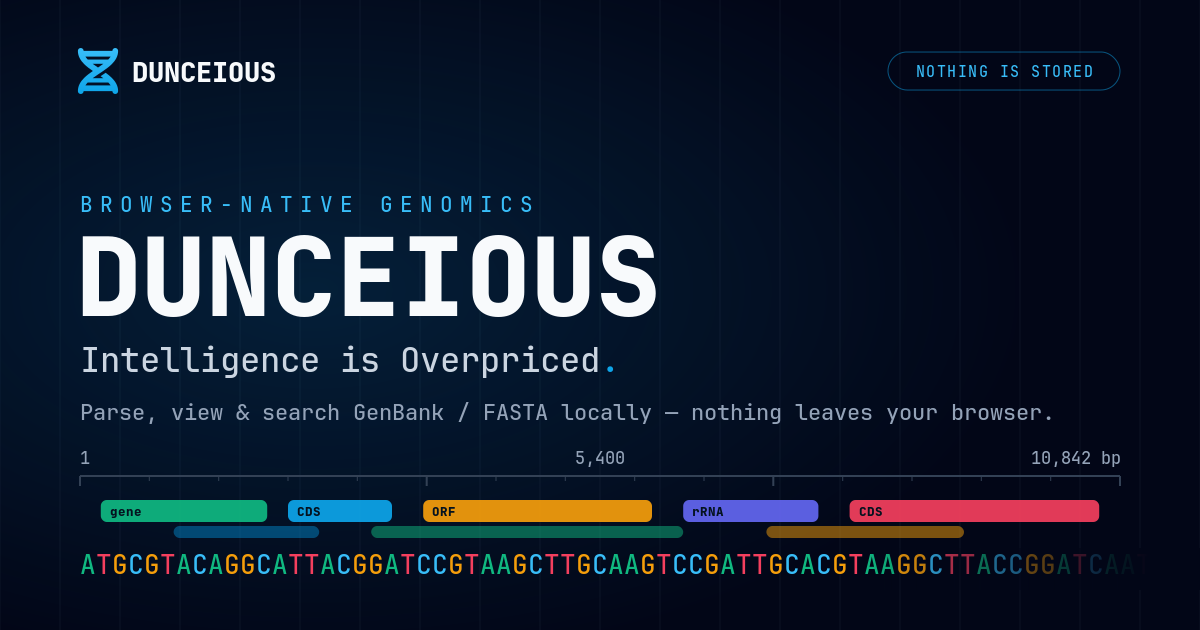
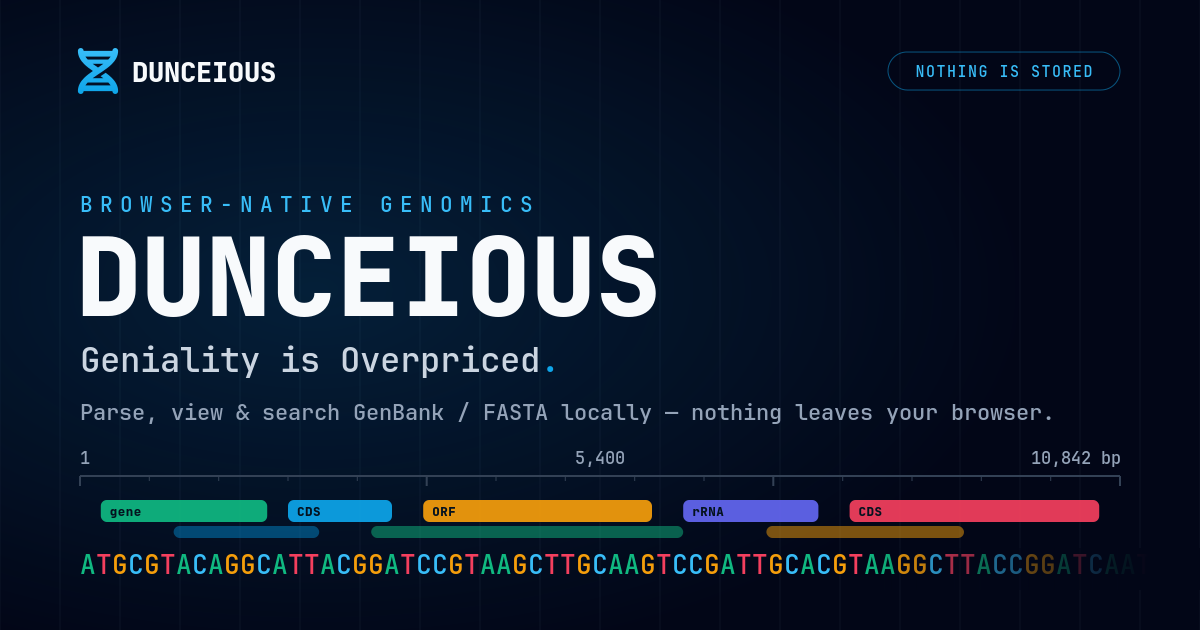
fix: update the slogan to geniality

diff --git a/index.html b/index.html
@@ -23,7 +23,7 @@
 <head>
     <meta charset="UTF-8">
     <meta name="viewport" content="width=device-width, initial-scale=1.0">
-    <title>Dunceious - Intelligence is Overpriced</title>
+    <title>Dunceious - Geniality is Overpriced</title>
     <meta name="description" content="A browser-native genome & sequence workbench. Parse, view, and search GenBank & FASTA entirely in your browser — nothing is stored.">
     <meta name="theme-color" content="#020617">
     <link rel="canonical" href="https://dunceious.pages.dev/">
@@ -37,7 +37,7 @@
     <!-- og:image / twitter:image MUST be absolute https URLs; most platforms drop a relative image. -->
     <meta property="og:type" content="website">
     <meta property="og:site_name" content="Dunceious">
-    <meta property="og:title" content="Dunceious — Intelligence is Overpriced">
+    <meta property="og:title" content="Dunceious — Geniality is Overpriced">
     <meta property="og:description" content="A browser-native genome & sequence workbench. Parse, view, and search GenBank & FASTA entirely in your browser — nothing is stored.">
     <meta property="og:url" content="https://dunceious.pages.dev/">
     <meta property="og:image" content="https://dunceious.pages.dev/og-image.png">
@@ -49,7 +49,7 @@
 
     <!-- Social preview (Twitter/X) -->
     <meta name="twitter:card" content="summary_large_image">
-    <meta name="twitter:title" content="Dunceious — Intelligence is Overpriced">
+    <meta name="twitter:title" content="Dunceious — Geniality is Overpriced">
     <meta name="twitter:description" content="A browser-native genome & sequence workbench. Parse, view, and search GenBank & FASTA entirely in your browser — nothing is stored.">
     <meta name="twitter:image" content="https://dunceious.pages.dev/og-image.png">
     <meta name="twitter:image:alt" content="Dunceious — a browser-native genome & sequence workbench">

diff --git a/docs/design/environment-accent-prototypes.html b/docs/design/environment-accent-prototypes.html
@@ -1405,7 +1405,7 @@ table.db td.loc { font-family: var(--mono); color: #475569; font-variant-numeric
     <div class=&quot;nav&quot;>
       <div class=&quot;hf-env&quot;></div>
       <button class=&quot;iconbtn hamb&quot; aria-label=&quot;Menu&quot;><i></i><i></i><i></i></button>
-      <div class=&quot;wordmark&quot;><b>DUNCEIOUS</b><span>BECAUSE INTELLIGENCE IS OVERPRICED.</span></div>
+      <div class=&quot;wordmark&quot;><b>DUNCEIOUS</b><span>BECAUSE GENIALITY IS OVERPRICED.</span></div>
       <div class=&quot;modesw&quot;>
         <div class=&quot;mcell view&quot;><span class=&quot;pill-bloom&quot;></span><span class=&quot;g&quot;>⊕</span><span class=&quot;t&quot;><small>VIEW</small><b>VISUAL VIEWPORT</b></span></div>
         <div class=&quot;mcell manage&quot;><span class=&quot;pill-bloom&quot;></span><span class=&quot;g&quot;>▦</span><span class=&quot;t&quot;><small>MANAGE</small><b>DATABASE HUB</b></span></div>
@@ -2080,7 +2080,7 @@ table.db td.loc { font-family: var(--mono); color: #475569; font-variant-numeric
     <div class=&quot;nav&quot;>
       <div class=&quot;chrome-env&quot;></div>
       <button class=&quot;iconbtn hamb&quot; aria-label=&quot;Menu&quot;><i></i><i></i><i></i></button>
-      <div class=&quot;wordmark&quot;><b>DUNCEIOUS</b><span>BECAUSE INTELLIGENCE IS OVERPRICED.</span></div>
+      <div class=&quot;wordmark&quot;><b>DUNCEIOUS</b><span>BECAUSE GENIALITY IS OVERPRICED.</span></div>
       <div class=&quot;modesw&quot;>
         <div class=&quot;mcell view&quot;><span class=&quot;pill-bloom&quot;></span><span class=&quot;g&quot;>⊕</span><span class=&quot;t&quot;><small>VIEW</small><b>VISUAL VIEWPORT</b></span></div>
         <div class=&quot;mcell manage&quot;><span class=&quot;pill-bloom&quot;></span><span class=&quot;g&quot;>▦</span><span class=&quot;t&quot;><small>MANAGE</small><b>DATABASE HUB</b></span></div>

diff --git a/docs/design/prototypes/gradient-incontext.html b/docs/design/prototypes/gradient-incontext.html
@@ -290,7 +290,7 @@ table.db td.loc { font-family: var(--mono); color: #475569; font-variant-numeric
     <div class="nav">
       <div class="chrome-env"></div>
       <button class="iconbtn hamb" aria-label="Menu"><i></i><i></i><i></i></button>
-      <div class="wordmark"><b>DUNCEIOUS</b><span>BECAUSE INTELLIGENCE IS OVERPRICED.</span></div>
+      <div class="wordmark"><b>DUNCEIOUS</b><span>BECAUSE GENIALITY IS OVERPRICED.</span></div>
       <div class="modesw">
         <div class="mcell view"><span class="pill-bloom"></span><span class="g">⊕</span><span class="t"><small>VIEW</small><b>VISUAL VIEWPORT</b></span></div>
         <div class="mcell manage"><span class="pill-bloom"></span><span class="g">▦</span><span class="t"><small>MANAGE</small><b>DATABASE HUB</b></span></div>

diff --git a/docs/design/prototypes/gradient-frame-styles.html b/docs/design/prototypes/gradient-frame-styles.html
@@ -1347,7 +1347,7 @@ table.db td.loc { font-family: var(--mono); color: #475569; font-variant-numeric
     <div class="nav">
       <div class="hf-env"></div>
       <button class="iconbtn hamb" aria-label="Menu"><i></i><i></i><i></i></button>
-      <div class="wordmark"><b>DUNCEIOUS</b><span>BECAUSE INTELLIGENCE IS OVERPRICED.</span></div>
+      <div class="wordmark"><b>DUNCEIOUS</b><span>BECAUSE GENIALITY IS OVERPRICED.</span></div>
       <div class="modesw">
         <div class="mcell view"><span class="pill-bloom"></span><span class="g">⊕</span><span class="t"><small>VIEW</small><b>VISUAL VIEWPORT</b></span></div>
         <div class="mcell manage"><span class="pill-bloom"></span><span class="g">▦</span><span class="t"><small>MANAGE</small><b>DATABASE HUB</b></span></div>

diff --git a/src/app/components/TopNav.tsx b/src/app/components/TopNav.tsx
@@ -101,7 +101,7 @@ const TopNav: React.FC<TopNavProps> = ({
           <span className="text-xl font-black tracking-tightest uppercase italic text-white">Dunceious</span>
         </div>
         <span className="text-[8px] font-black uppercase tracking-[0.4em] text-slate-500 italic leading-none mt-1">
-          Because intelligence is overpriced.
+          Because geniality is overpriced.
         </span>
       </div>
     </div>

diff --git a/scripts/gen-brand-assets.py b/scripts/gen-brand-assets.py
@@ -143,7 +143,7 @@ def og():
   <text x="{W-80-116}" y="77" fill="{SKY_HI}" font-family="JetBrains Mono" font-size="15" letter-spacing="1.5" text-anchor="middle">NOTHING&#160;IS&#160;STORED</text>
   <text x="{ML}" y="212" fill="{SKY_HI}" font-family="JetBrains Mono" font-weight="500" font-size="21" letter-spacing="7">BROWSER-NATIVE&#160;GENOMICS</text>
   <text x="{ML-4}" y="316" fill="{INK}" font-family="JetBrains Mono" font-weight="800" font-size="108">DUNCEIOUS</text>
-  <text x="{ML}" y="372" fill="#cbd5e1" font-family="JetBrains Mono" font-weight="500" font-size="34">Intelligence is Overpriced<tspan fill="{SKY}">.</tspan></text>
+  <text x="{ML}" y="372" fill="#cbd5e1" font-family="JetBrains Mono" font-weight="500" font-size="34">Geniality is Overpriced<tspan fill="{SKY}">.</tspan></text>
   <text x="{ML}" y="420" fill="{MUTE}" font-family="JetBrains Mono" font-weight="400" font-size="22">Parse, view &amp; search GenBank / FASTA locally &#8212; nothing leaves your browser.</text>
   <line x1="{x0}" y1="{ry}" x2="{x1}" y2="{ry}" stroke="{RULE}" stroke-width="2"/>
   {ticks}{labels}{blocks}{nuc}

diff --git a/README.md b/README.md
@@ -1,6 +1,6 @@
 # Dunceious
 
-> **Intelligence is Overpriced.**
+> **Geniality is Overpriced.**
 > **Invest in coffee and staff, not in genial expensive software.**
 
 Dunceious is a high-performance, browser-based bioinformatics platform for **Multi-Sequence Alignment (MSA) visualization**, annotation management, and sequence analysis. It parses GenBank and FASTA files, runs sequence alignment, renders an interactive genome viewer with semantic zoom, and provides both exact (IUPAC degenerate codes) and fuzzy (Smith-Waterman) sequence search — all without a backend.
